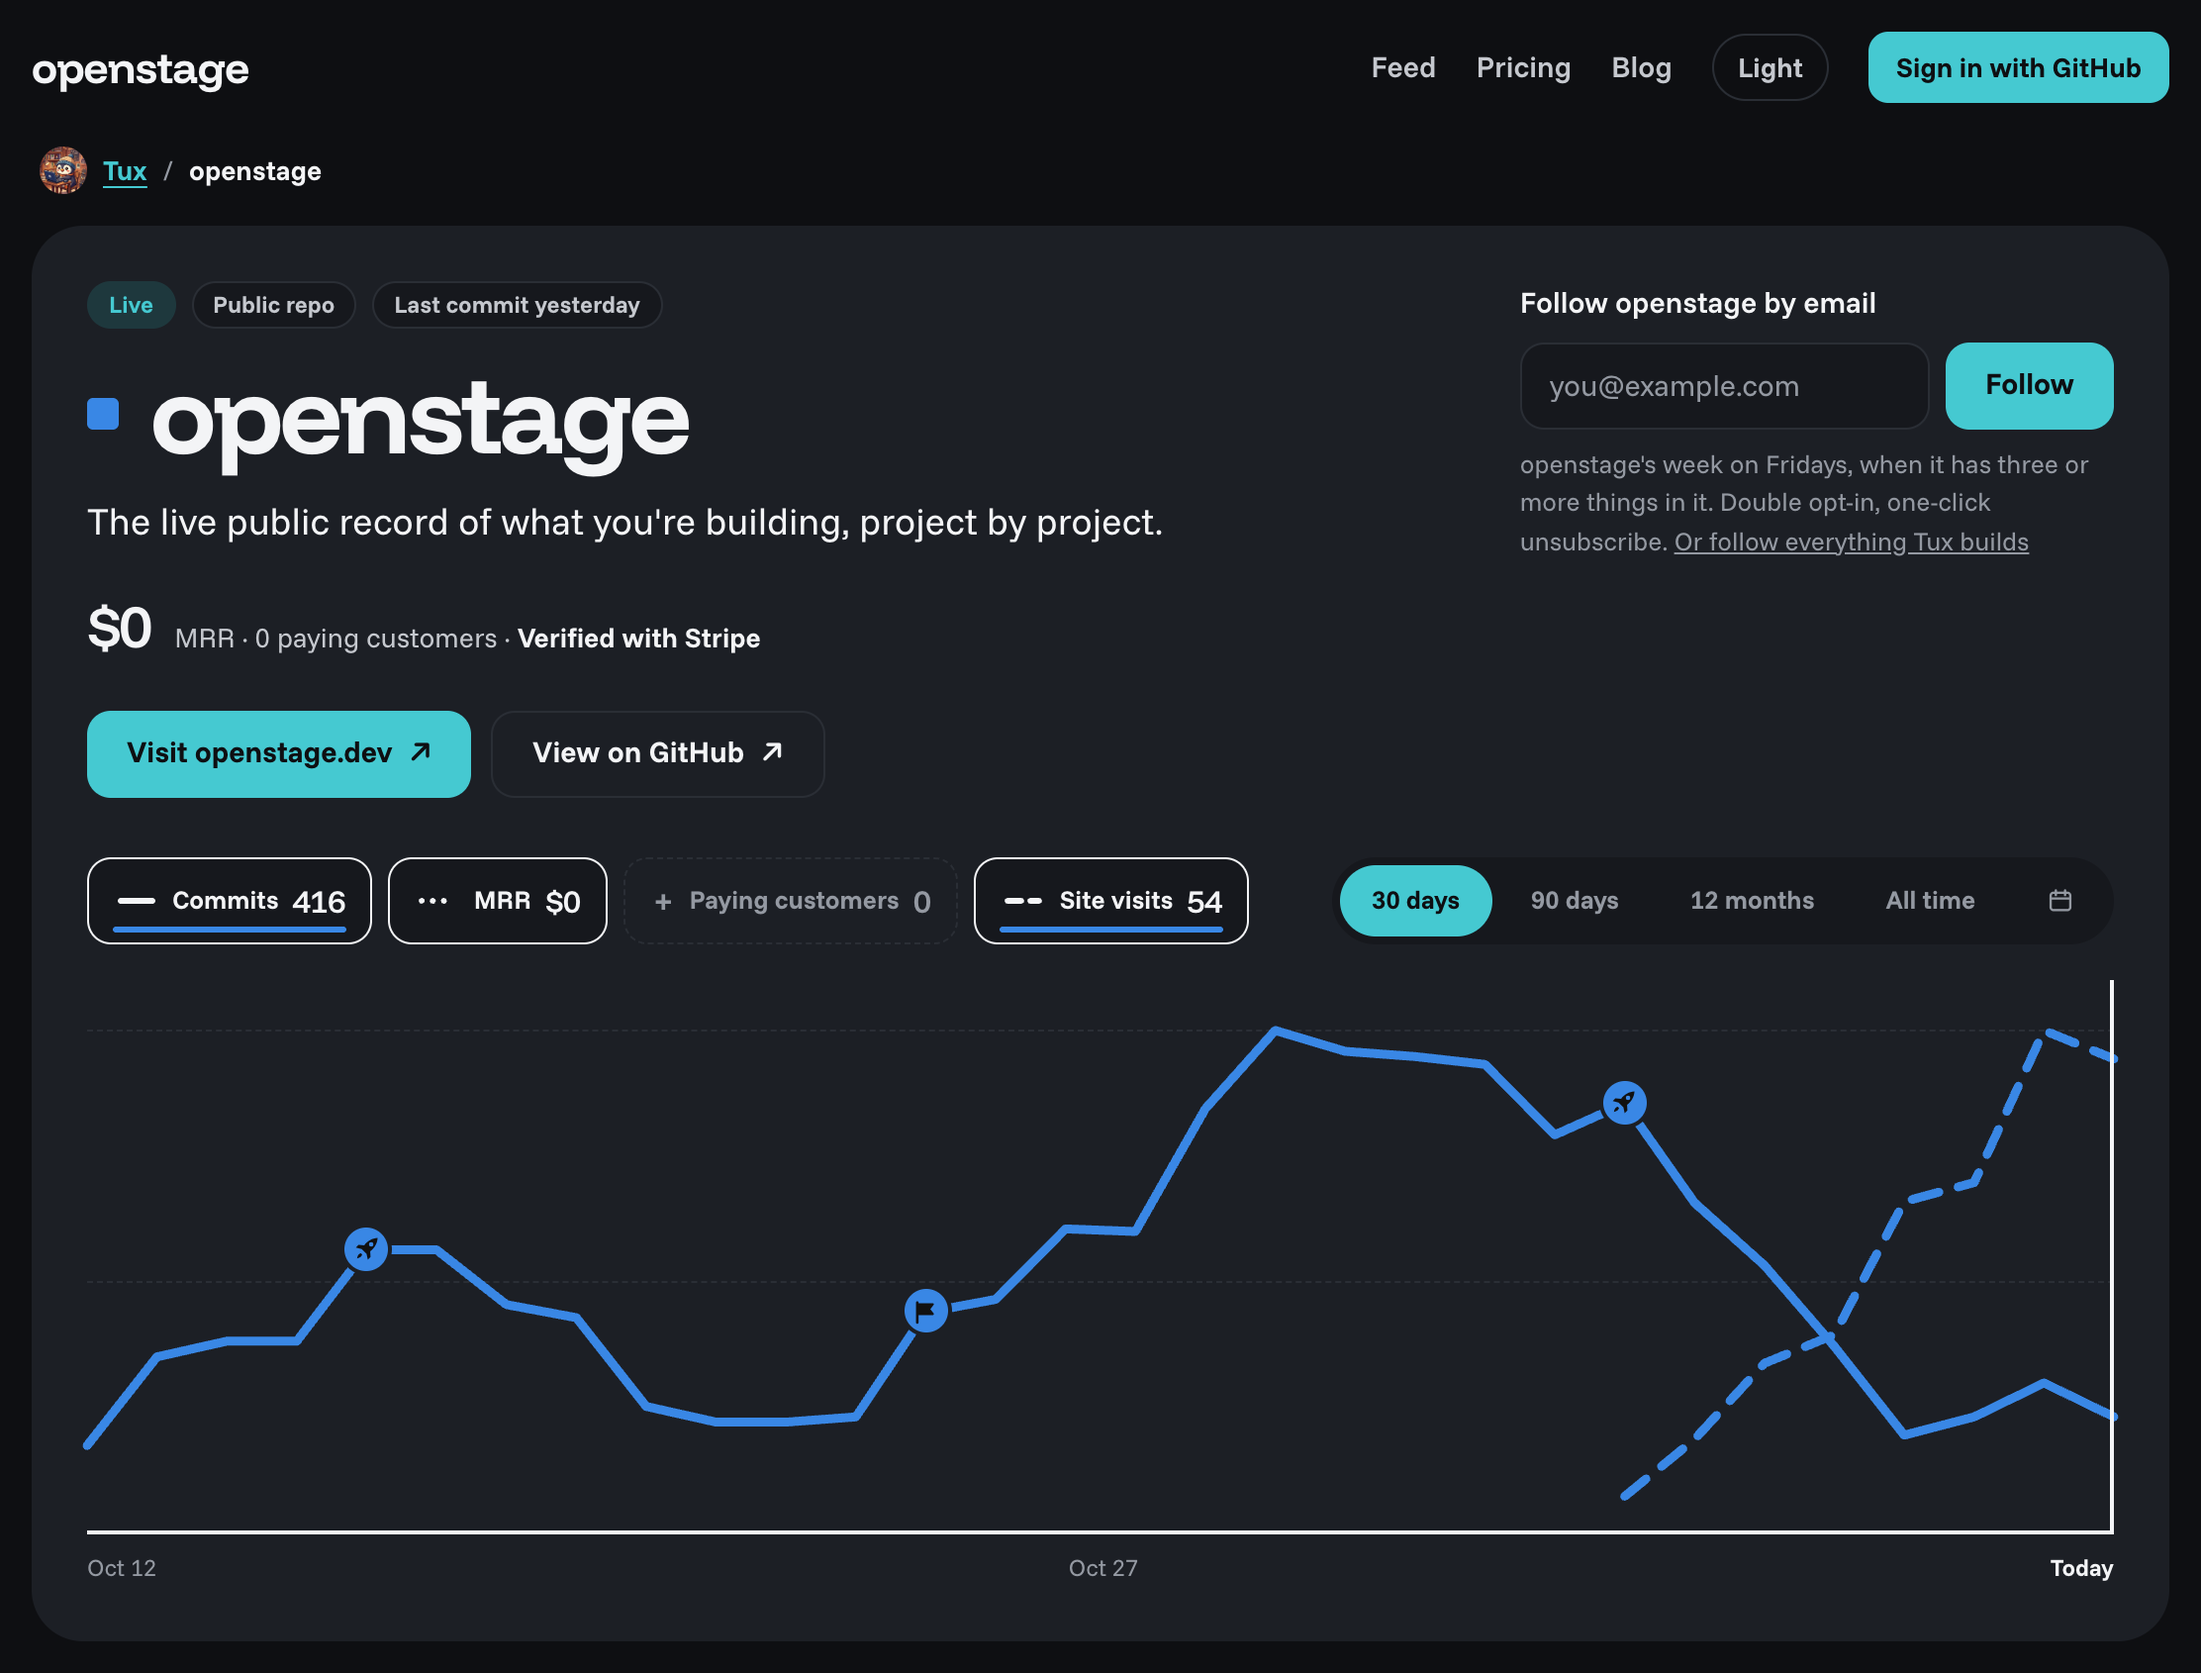
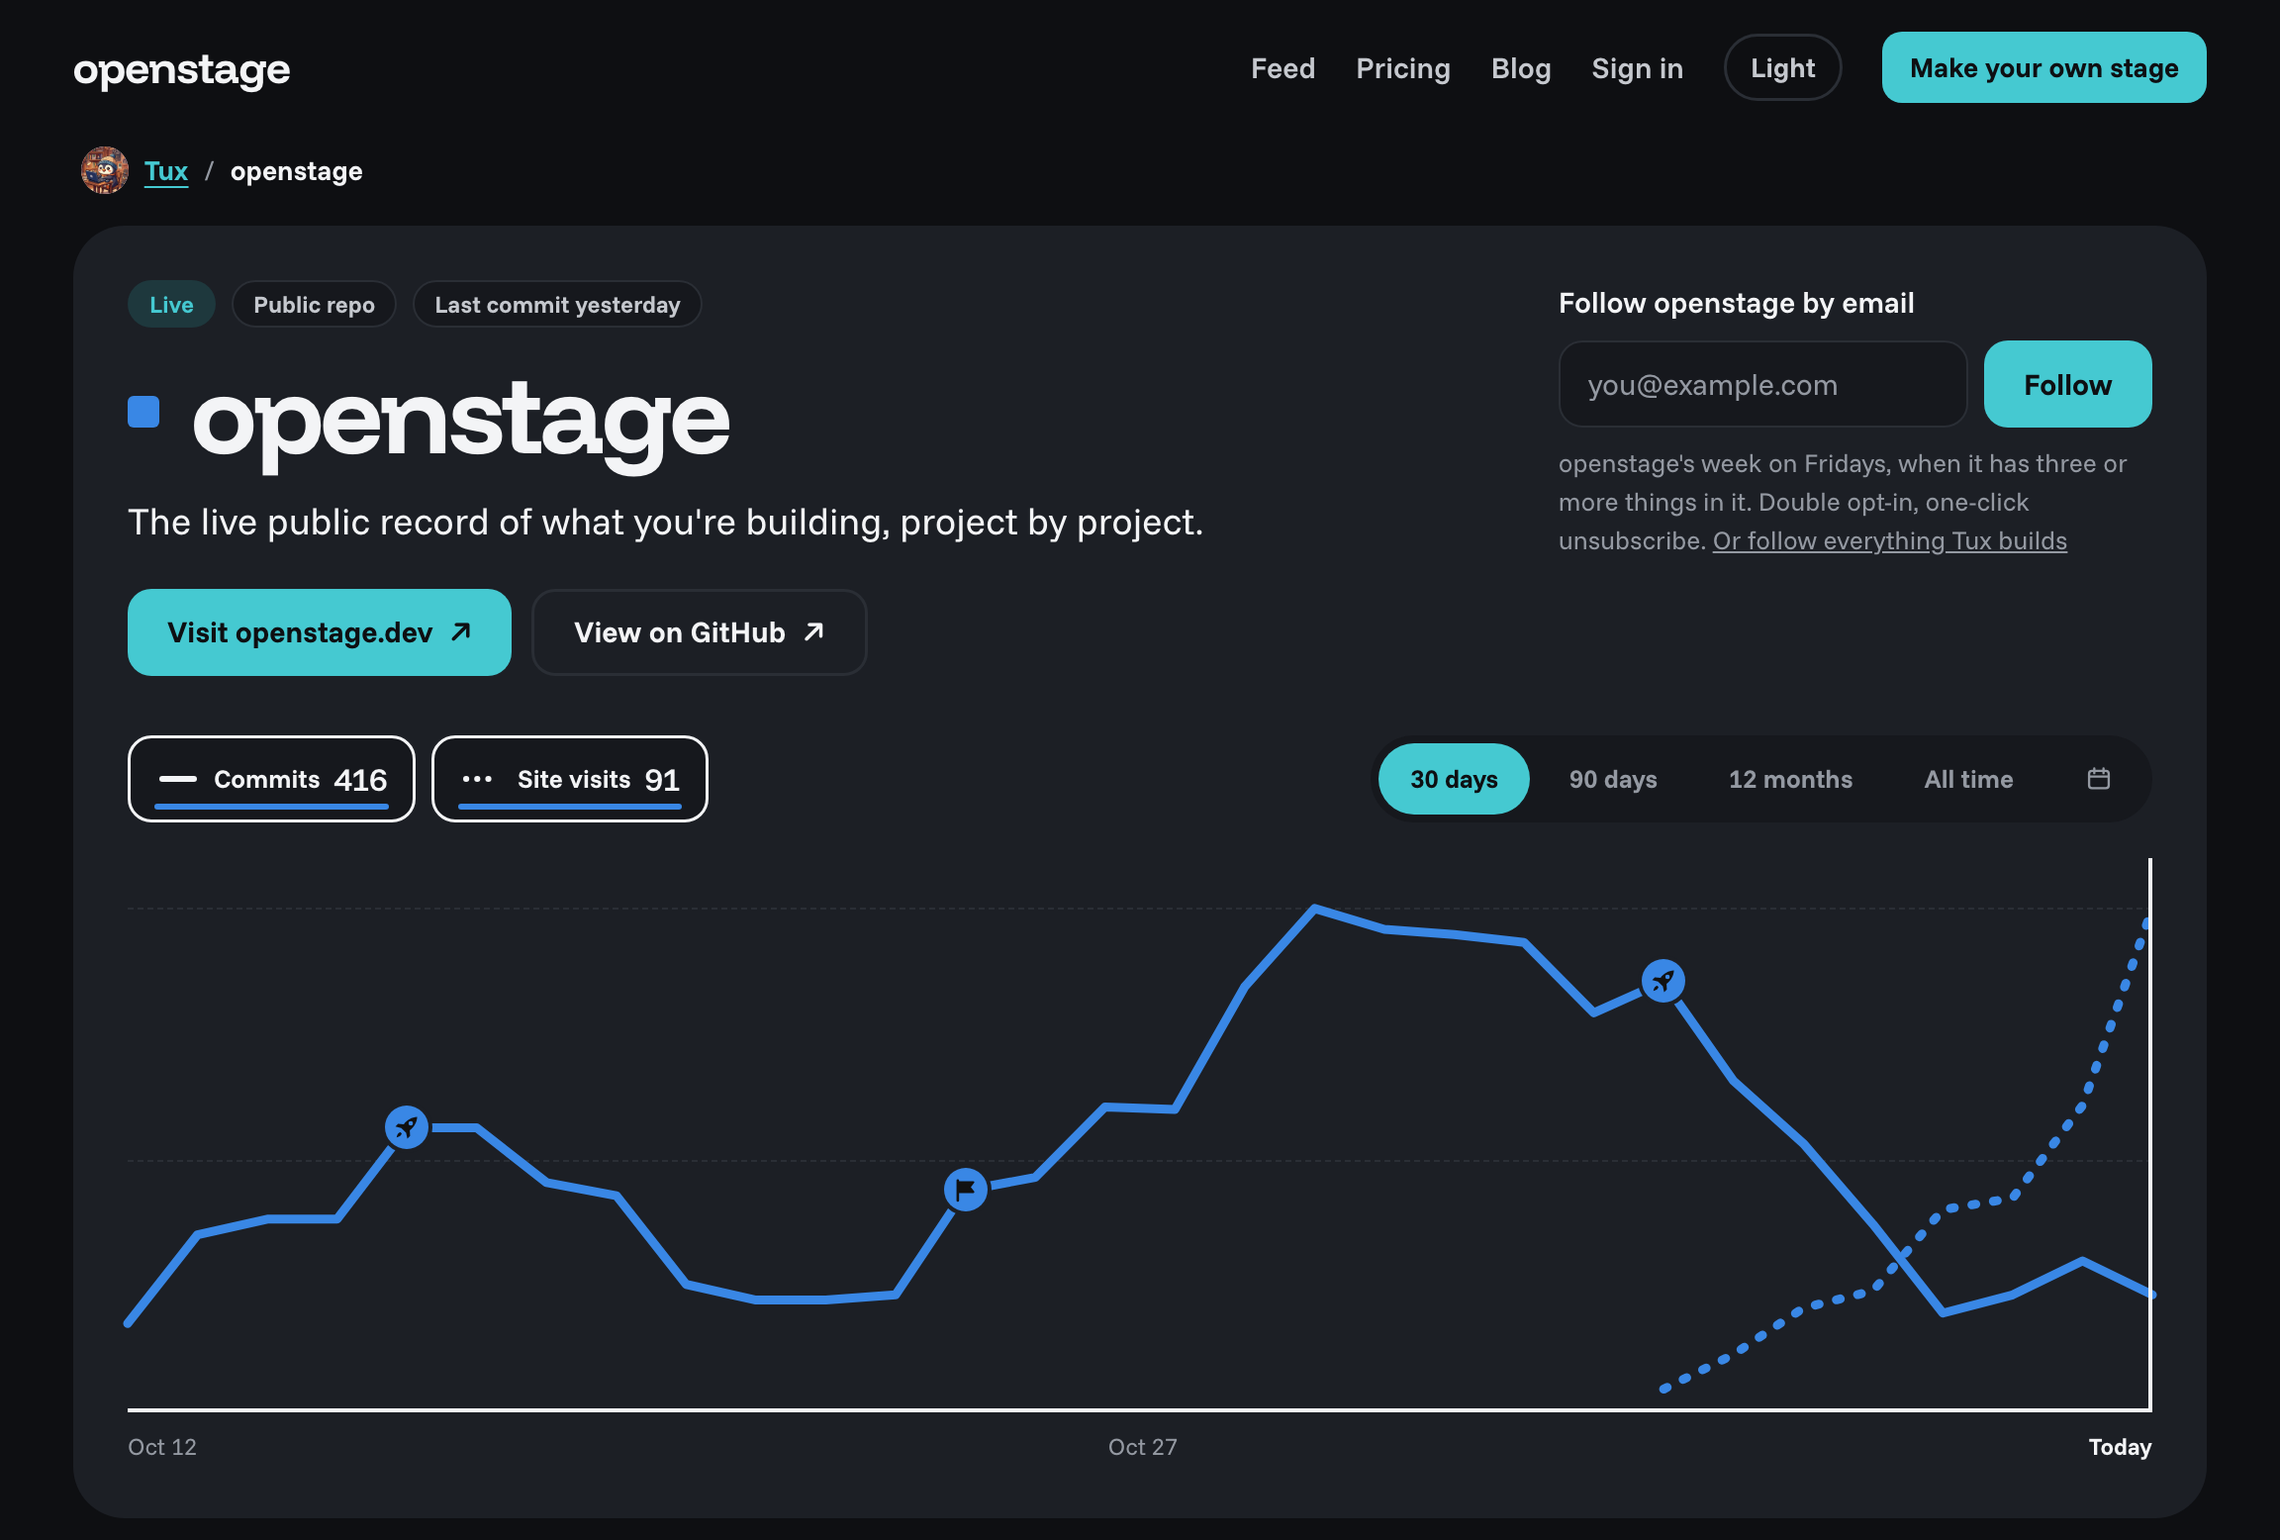
Retake the README pictures without the zeros

diff --git a/README.md b/README.md
@@ -5,7 +5,7 @@
 <a href="https://openstage.dev/tuxnotfound/openstage">
   <picture>
     <source media="(prefers-color-scheme: dark)" srcset="doc/readme/project-page-dark.png">
-    <img src="doc/readme/project-page-light.png" alt="Openstage's own project page: its MRR, and one chart of its commits and site visits with what shipped marked on it">
+    <img src="doc/readme/project-page-light.png" alt="Openstage's own project page: one chart of its commits and site visits, with what shipped marked on it">
   </picture>
 </a>
 
